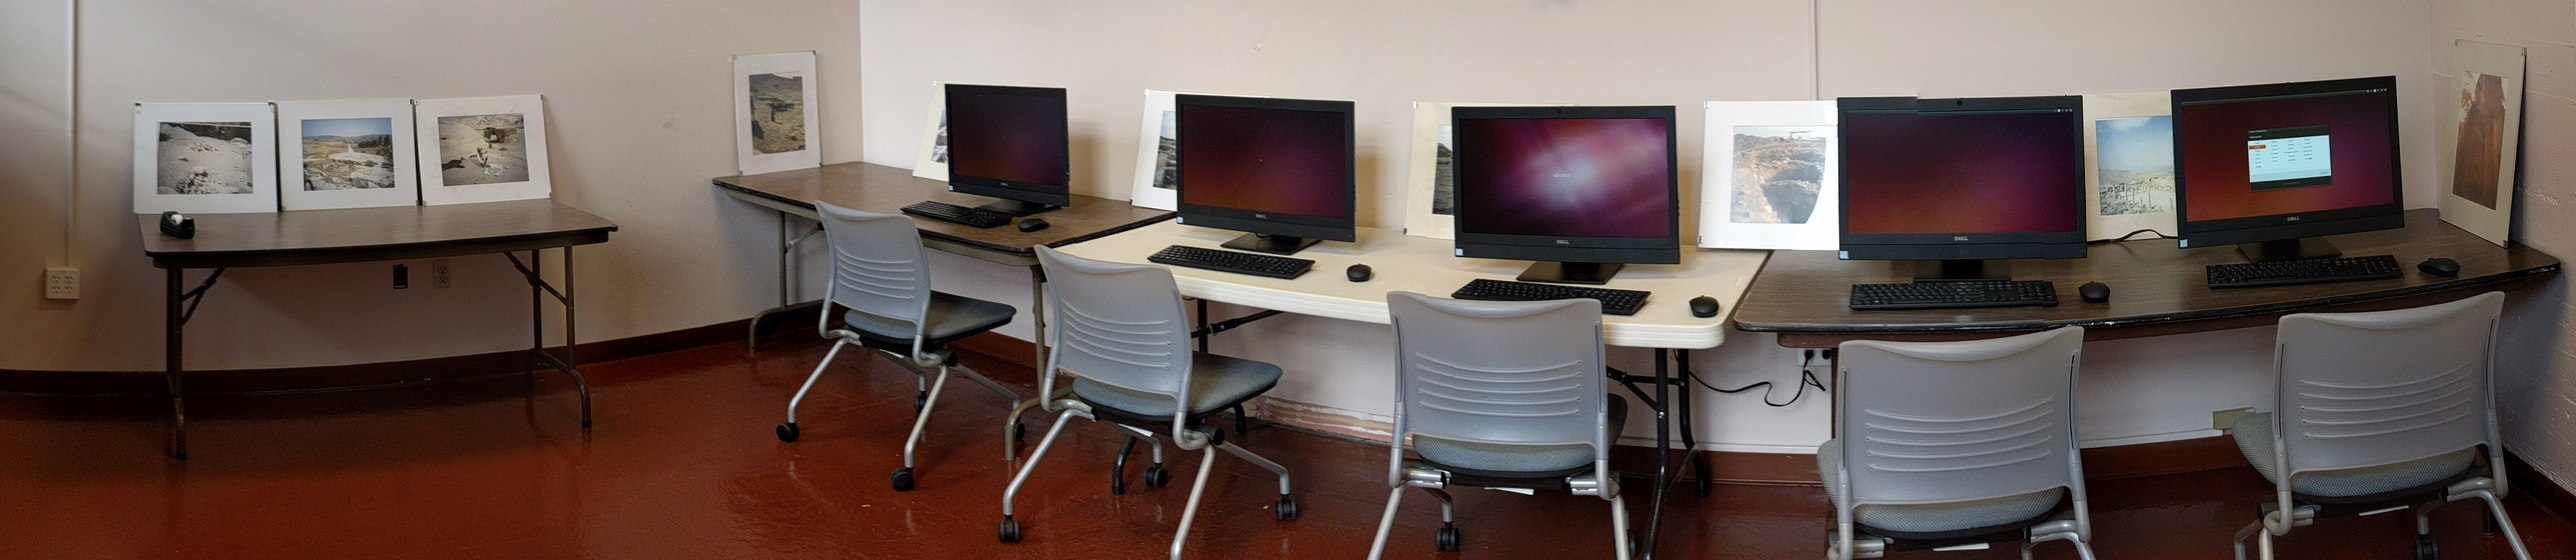
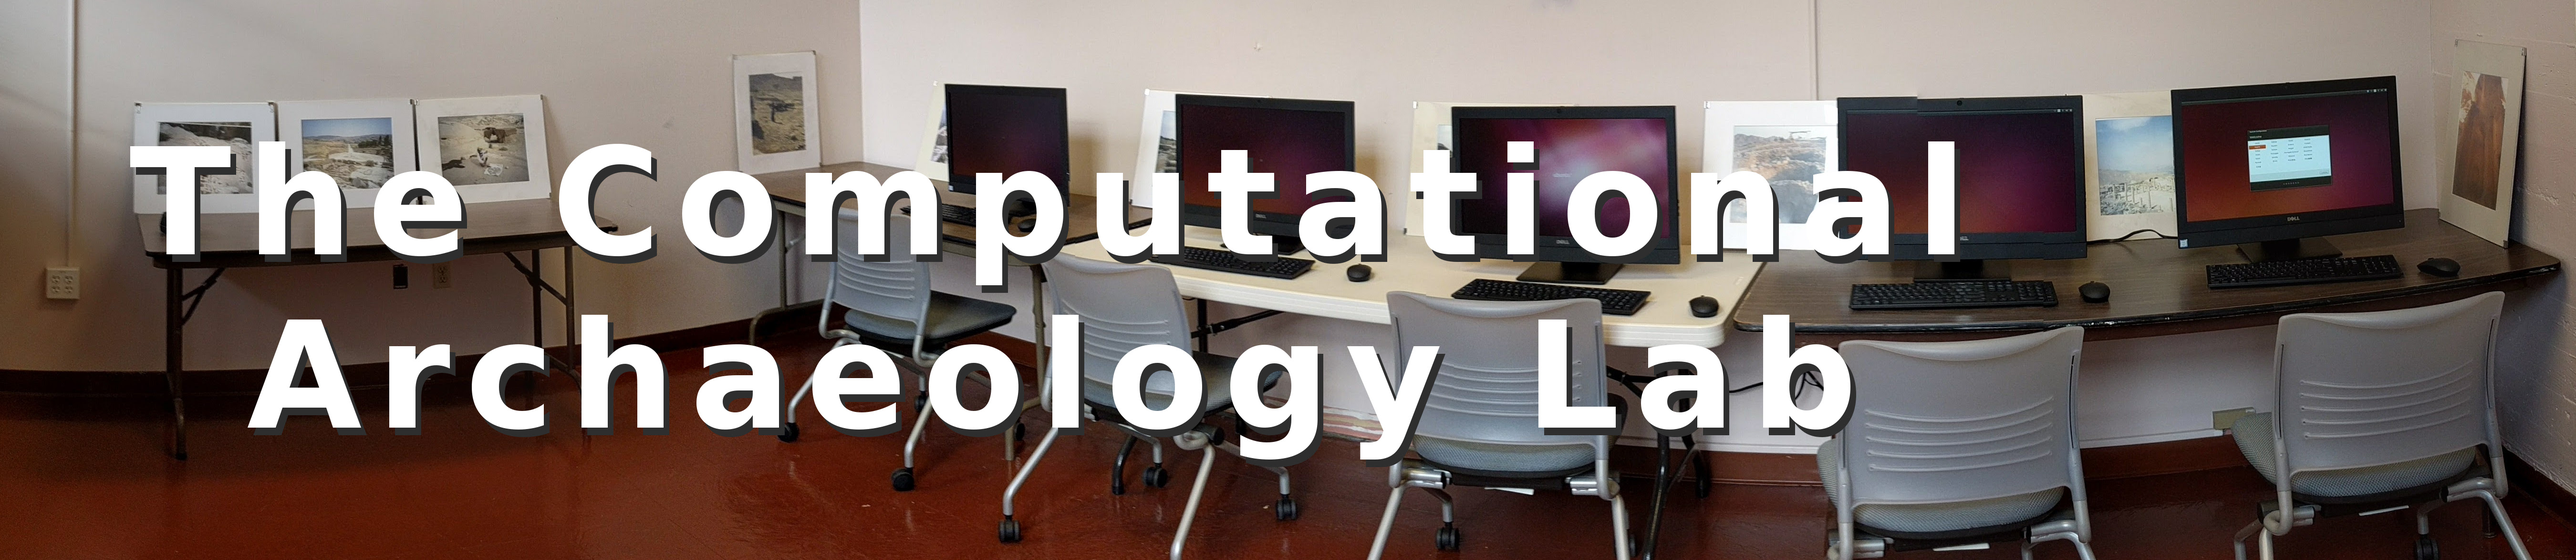
adding page on the CompArch lab

diff --git a/CompArchLab/index.md b/CompArchLab/index.md
@@ -1,6 +1,6 @@
 ---
 layout: page
-title: The Computational Archaeology Laboratory at SDSU
+title: SDSU "CompArch" Lab
 date: 2017-03-01
 modified: 2017-03-01
 excerpt: Details about the new Computational Archaeology Laborartory here at San Diego State University.
